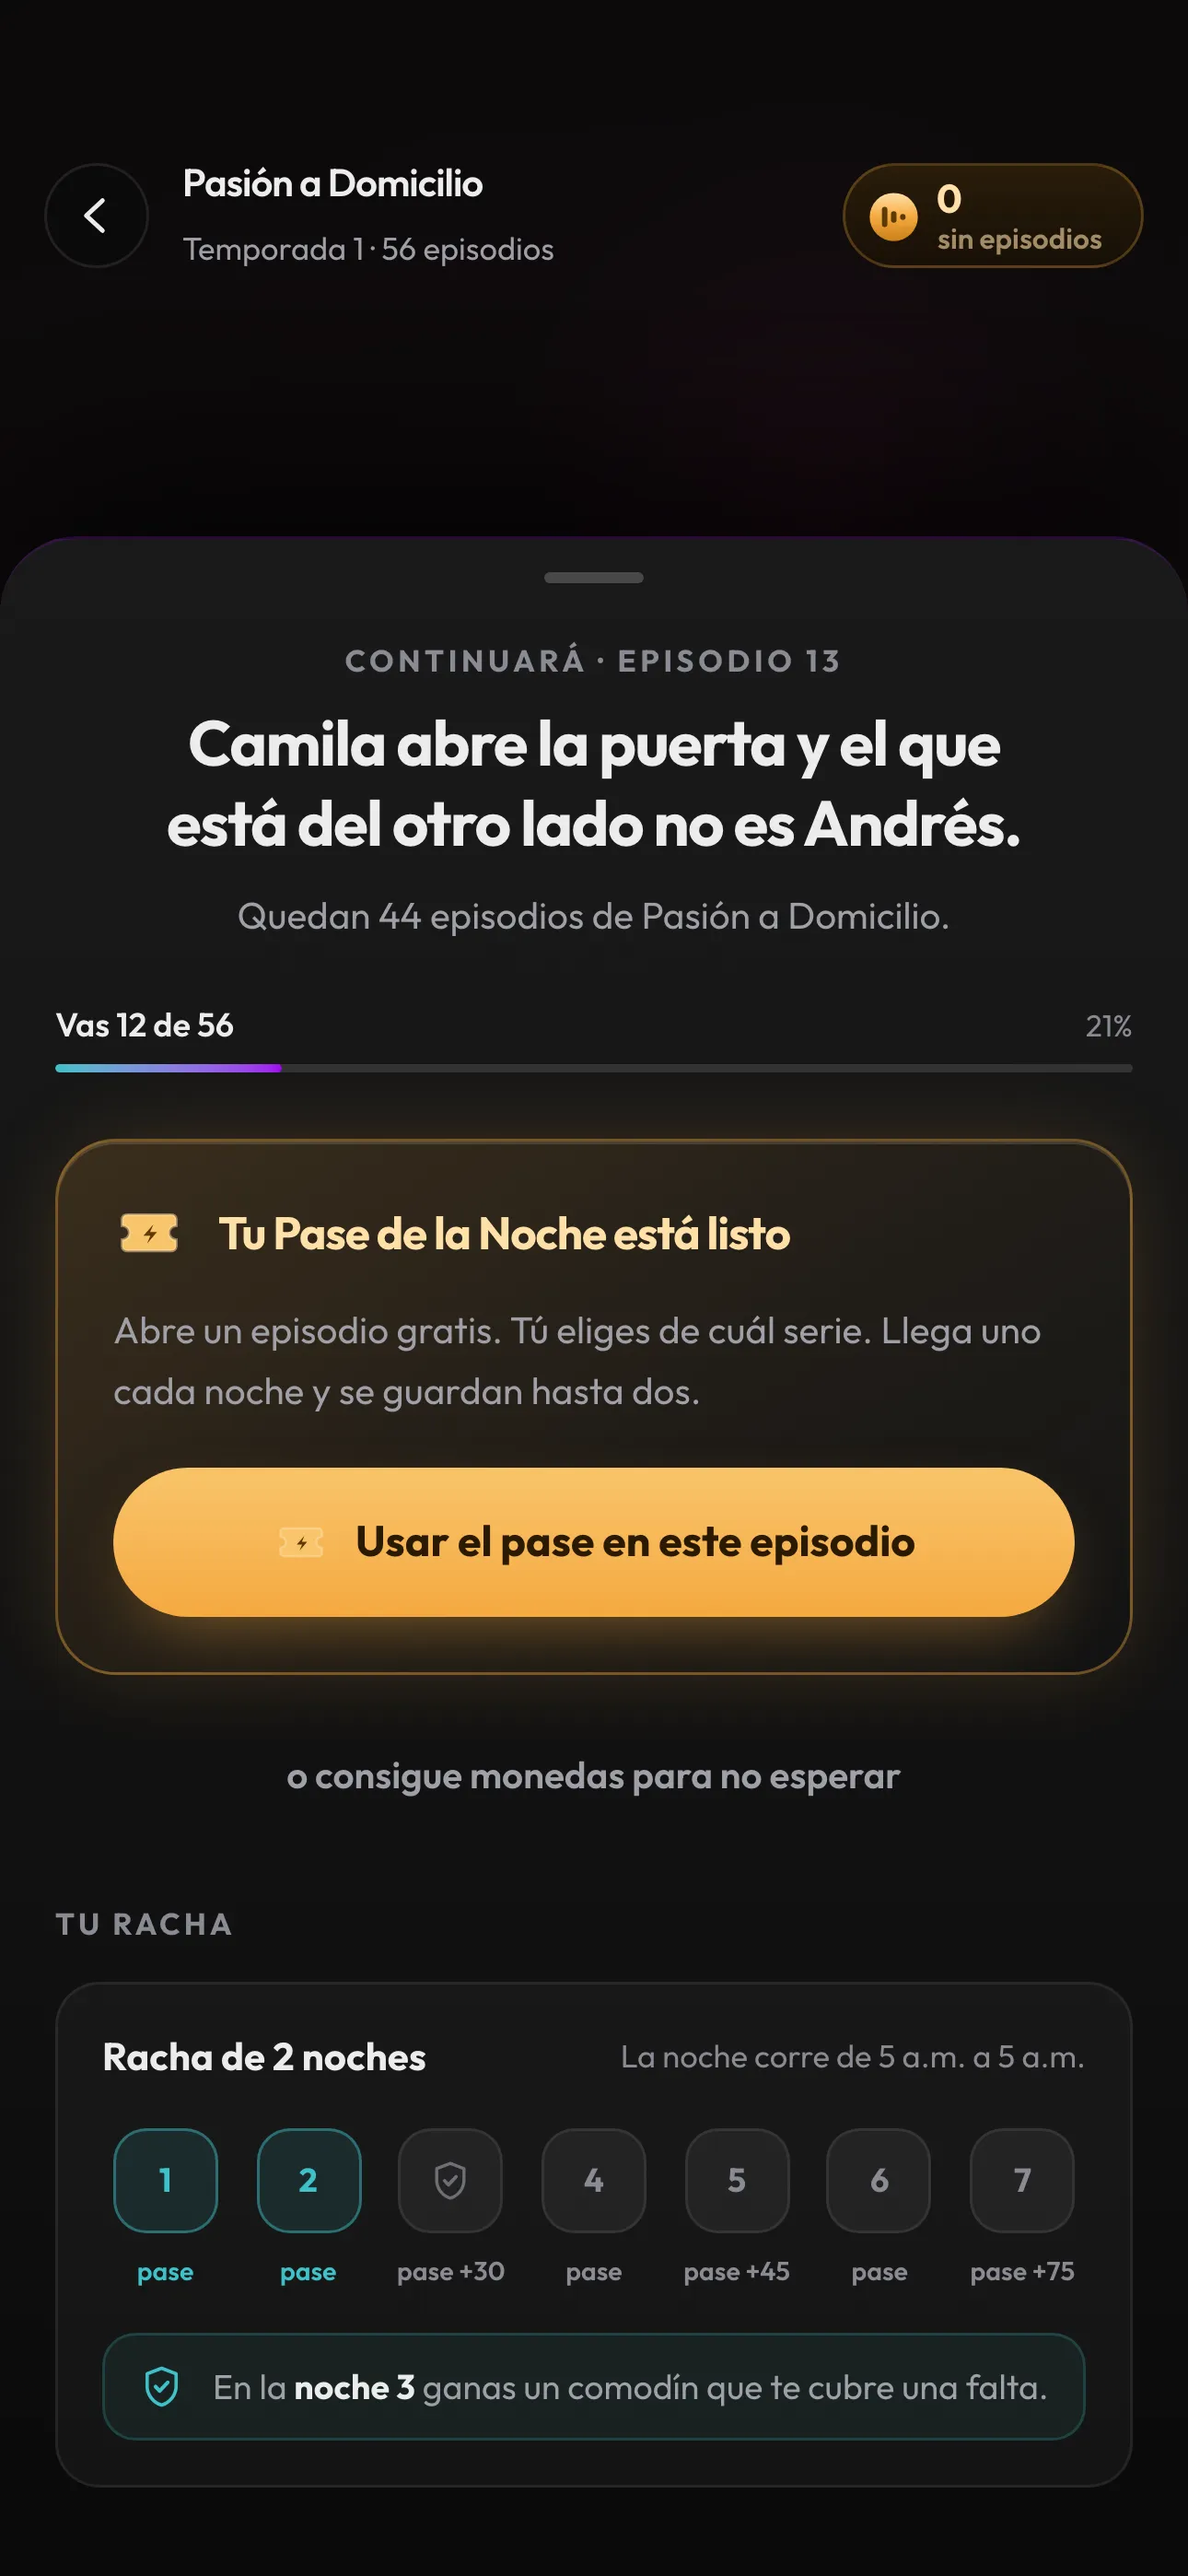
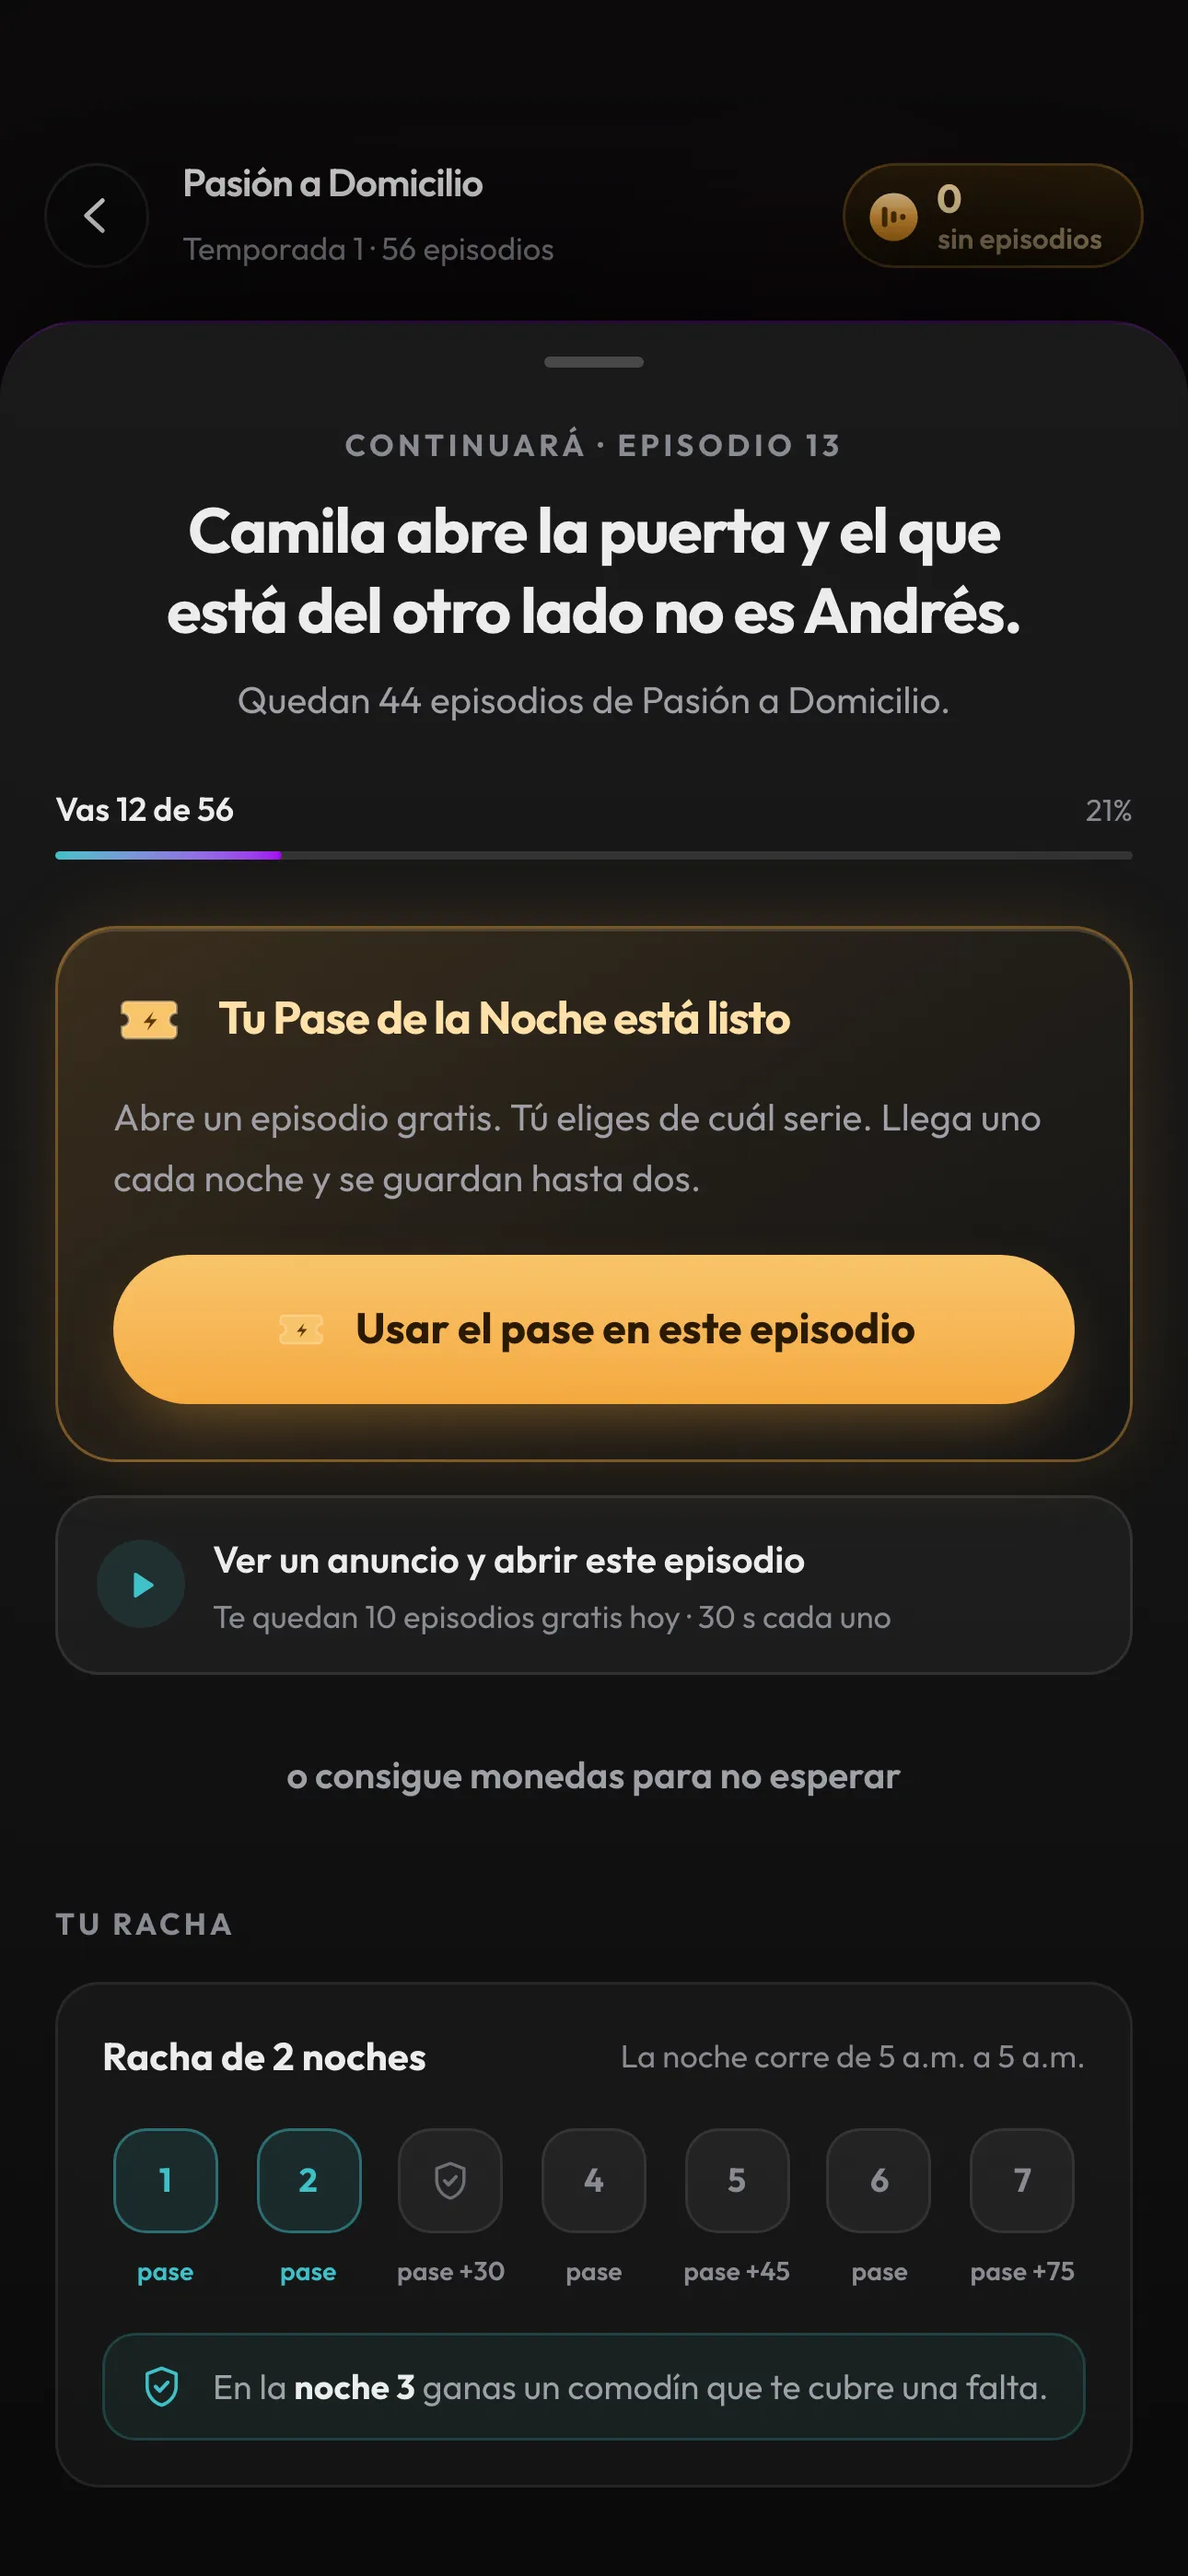
La versión sobre el stack real también muestra el anuncio
El mismo hueco que el prototipo tenía hasta hace un rato, en la otra
implementación: su muro no mostraba la salida gratuita que el producto ya
tiene, así que las dos versiones del entregable proponían un muro con menos
opciones que el real.

Ahora las dos dicen lo mismo y en el mismo orden —Pase, anuncio, pago— y con la
misma traducción: "te quedan 10 episodios gratis hoy" en vez del "0/10" que el
producto rotula.

En la web el contador sale del modelo, no del estado del cliente: aquí el muro
es una ruta prerrenderizada y el tope diario lo resolvería el servidor, igual
que resuelve los pases. Poner un contador que baja al tocar sería fingir un
estado que esta versión no tiene.

Accesibilidad verificada en las dos: once estados del prototipo y cuatro del
stack, sin violaciones, con el elemento nuevo dentro.

diff --git a/web/components/Muro.tsx b/web/components/Muro.tsx
@@ -1,10 +1,10 @@
 'use client'
 
 import { useEffect, useState } from 'react'
-import { EPISODE_COST, MAX_PASSES, episodesLabel } from '@/lib/economy'
+import { EPISODE_COST, FUENTES_HOY, MAX_PASSES, episodesLabel } from '@/lib/economy'
 import type { VistaDelPase } from '@/lib/pase'
 import type { Serie } from '@/lib/supabase/queries'
-import { Moneda, Ticket } from './Moneda'
+import { Moneda, Play, Ticket } from './Moneda'
 import { Racha } from './Racha'
 
 /**
@@ -72,6 +72,24 @@ export function Muro({
 
       {/* 3 · la decisión */}
       {pase.passes > 0 ? <PaseListo pase={pase} onUsar={onUsarPase} /> : <Cita pase={pase} episodio={episodio} />}
+
+      {/* El anuncio recompensado, que el producto YA tiene y este muro no
+          mostraba. Va entre el Pase y lo pago por la regla de D2 —lo gratis
+          antes que lo pago— y debajo del Pase porque el Pase es lo mismo sin
+          los 30 segundos ni el corte en el cliffhanger. Y va traducido: el
+          producto lo rotula «0/10», que no le dice nada a nadie. */}
+      <button className="mt-3 flex w-full items-center gap-2.5 rounded-2xl border border-white/9
+                         bg-white/[.045] px-3.5 py-3 text-left transition hover:bg-white/[.075]">
+        <span className="grid h-8 w-8 flex-none place-items-center rounded-full bg-brand-cyan/12 text-brand-cyan">
+          <Play s={17} />
+        </span>
+        <span className="grid gap-0.5">
+          <b className="text-[13.5px] font-semibold text-ink">Ver un anuncio y abrir este episodio</b>
+          <small className="text-[11.5px] text-ink-low">
+            Te quedan {FUENTES_HOY.anuncio.topeDiario} episodios gratis hoy · 30 s cada uno
+          </small>
+        </span>
+      </button>
 
       <div className="mt-3.5">
         {puedePagar ? (

diff --git a/web/components/Moneda.tsx b/web/components/Moneda.tsx
@@ -47,3 +47,13 @@ export function Escudo({ s = 18, c = 'currentColor' }: { s?: number; c?: string 
     </svg>
   )
 }
+
+/** El play del anuncio recompensado. Triángulo lleno: es una acción de ver, no
+ *  de reproducir la historia — por eso no reusa el control del player. */
+export function Play({ s = 18, c = 'currentColor' }: { s?: number; c?: string }) {
+  return (
+    <svg width={s} height={s} viewBox="0 0 24 24" fill="none" aria-hidden="true">
+      <path d="M8.5 6.4 17 12l-8.5 5.6V6.4Z" fill={c} stroke={c} strokeWidth="1.6" strokeLinejoin="round" />
+    </svg>
+  )
+}
